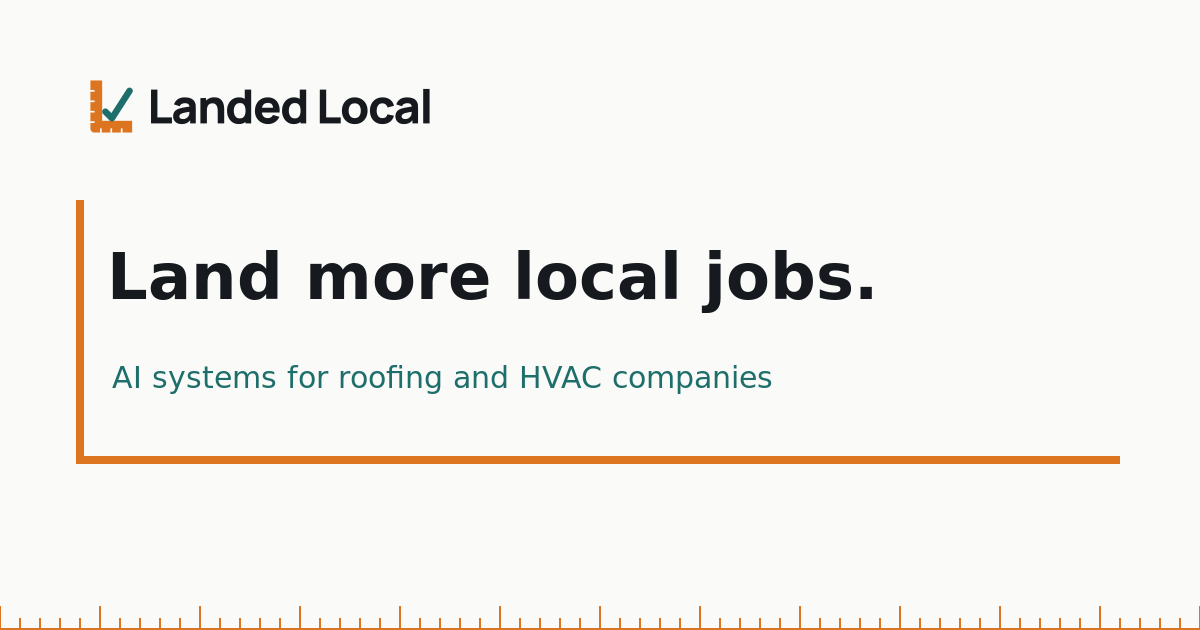
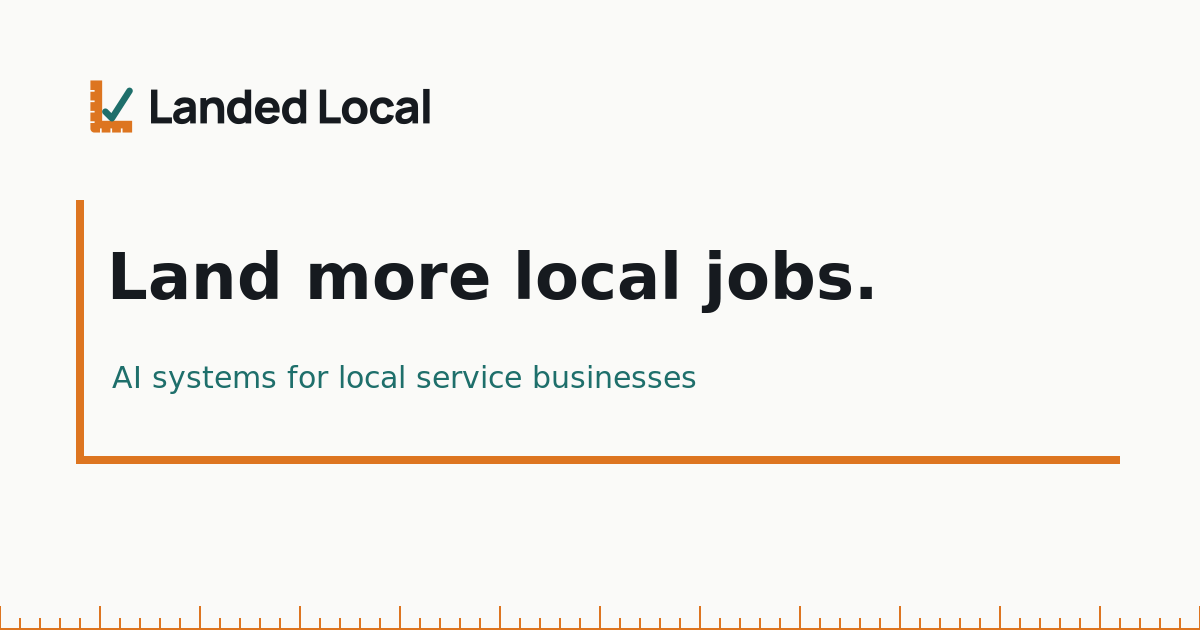
Update Landed Local consultation copy and share previews
Replit-Task-Id: 506d28a4-31be-4891-8947-c58a4b5d7620
Replit-Merge-Attempt: MergeTask:506d28a4-31be-4891-8947-c58a4b5d7620:1:4e0e05c8

Changed region(s): [[0.2775, 0.573, 0.6475, 0.6333]]

diff --git a/artifacts/landed-local/src/config/site.ts b/artifacts/landed-local/src/config/site.ts
@@ -8,11 +8,11 @@ const booking = {
   headerLabel: "Book a Consultation",
   /** Reassurance beside the booking invitation. */
   reassurance: "30 minutes · With George · No pitch deck",
-  /** Booking-page reassurance explains the review's practical outcome. */
+  /** Booking-page reassurance explains the consultation's practical outcome. */
   bookReassurance: "30 minutes. We'll find where jobs are slipping through and what it's costing you.",
-  /** Name of the free review call. */
-  callName: "Missed-Jobs Review",
-  /** The same review outcomes on the hero ticket and both booking surfaces. */
+  /** Name of the consultation. */
+  callName: "Consultation",
+  /** The same consultation outcomes on the hero ticket and booking surface. */
   callItems: ["How leads come in today, and where they slip through", "A rough dollar number on what that's costing you", "What fixing it looks like, and what it would take"],
   /** Cal.com event used by the future booking embed. */
   calLink: "https://cal.com/george-at-landed-local-u6v7fc/missed-jobs-review",
@@ -30,10 +30,10 @@ export const site = {
     /** Canonical domain without a trailing slash. */
     url: "https://www.landedlocal.com",
     /** Default search and social description for pages without their own. */
-    defaultDescription: "Landed Local finds where home-service companies lose jobs and time, then builds the AI systems that fix it. Book a free 30-minute call with George.",
+    defaultDescription: "Landed Local finds where local service businesses lose jobs and time, then builds the AI systems that fix it. Book a 30-minute consultation with George.",
     /** Default social share image under public. */
     ogImage: "/og-image.png",
-    ogImageAlt: "Landed Local — Land more local jobs. AI systems for roofing and HVAC companies",
+    ogImageAlt: "Landed Local — Land more local jobs. AI systems for local service businesses",
   },
   /** Existing brand assets; keep the original files and aliases. */
   brand: {
@@ -97,7 +97,7 @@ export const site = {
     email: "george@landedlocal.com",
   },
   /** Main audience shown in the agency copy. */
-  audienceLine: "For roofing and HVAC companies",
+  audienceLine: "For local service businesses",
   /** Invitation for home-service businesses outside the starting niches. */
   otherTradesLine: "Run a different home-service business? The same systems work for plumbing, foundation, restoration and more. Book a call and we'll tell you honestly if it fits.",
   /** Shared booking wording and destinations. */
@@ -124,7 +124,7 @@ export const site = {
     /** Main research figure. */
     value: "51%",
     /** Explanation of the research figure. */
-    text: "We read 285 one- and two-star reviews of Columbus home-service companies. For roofers, 51% came down to a call nobody returned or an appointment nobody kept.",
+    text: "We read 285 one- and two-star reviews of Columbus home-service companies. For local service businesses, 51% came down to a call nobody returned or an appointment nobody kept.",
     /** Attribution for the research. */
     source: "Landed Local review research, November 2026",
   },
@@ -136,14 +136,14 @@ export const site = {
     note: "Past builds by our partner development team for other home-service companies. The same team builds yours. Results vary by business.",
     stamp: "COMPLETED",
     cards: [
-      { number: "0417", trade: "Roofing company", system: "AI receptionist + speed-to-lead", label: "Calls answered", value: "51% → 100%" },
+      { number: "0417", trade: "Service company", system: "AI receptionist + speed-to-lead", label: "Calls answered", value: "40% → 95%" },
       { number: "0418", trade: "Electrical contractor", system: "Custom bid analyzer", label: "Bid review", value: "2 days → 4 min" },
       { number: "0419", trade: "Plumbing company", system: "Internal knowledge assistant", label: "New-tech onboarding", value: "1 month → 1 week" },
     ],
   },
   /** example conversation in the hero; swap the business and job when the niche changes */
   heroDemo: {
-    /** Whether the hero shows the example phone (false shows the FREE review ticket). */
+    /** Whether the hero shows the example phone (false shows the consultation ticket). */
     show: true,
     /** Eyebrow label above the phone. */
     label: "Example",
@@ -198,7 +198,7 @@ export const site = {
     nav: [
       {
         /** Navigation text. */
-        label: "Book a call",
+        label: "Book a Consultation",
         /** Destination page. */
         href: booking.bookPath,
       },
@@ -213,7 +213,7 @@ export const site = {
       },
       {
         /** Navigation text. */
-        label: "Book a call",
+        label: "Book a Consultation",
         /** Destination page. */
         href: booking.bookPath,
       },
